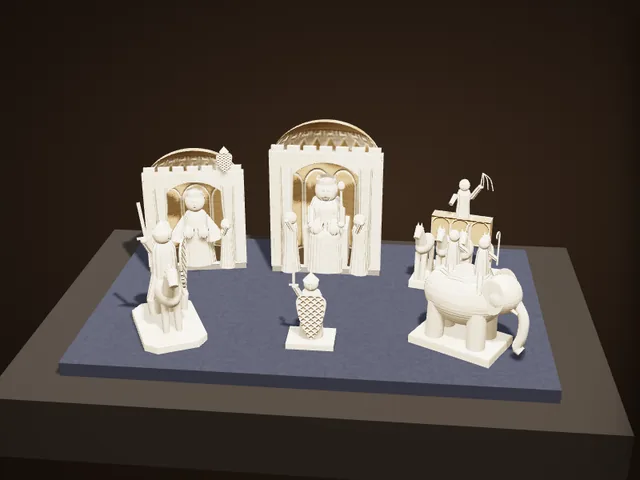
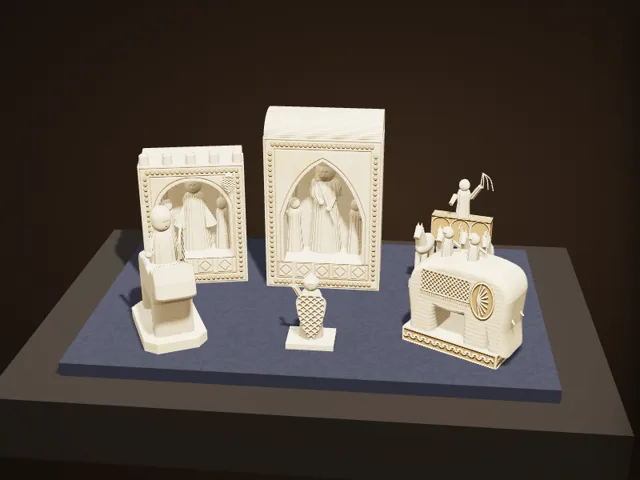
博物館：シャルルマーニュのチェス駒の王・女王・象・騎馬兵を展示写真に合わせて作り直し
Claude-Session: https://claude.ai/code/session_01EiWRAZTxRF5M5nk5vdR2jJ

Changed region(s): [[0.1562, 0.2188, 0.625, 0.75], [0.625, 0.4375, 0.8438, 0.7812]]

diff --git a/atlas/museum/ex/charlemagne.js b/atlas/museum/ex/charlemagne.js
@@ -8,7 +8,10 @@
    columns; elephant with two mahouts holding their hooks; quadriga driven by a charioteer with a three-thonged whip; horseman with
    a lozenge-decorated pointed shield, sword in the right hand, head turned to his left; soldier in cuirass and nasal helmet, sword
    held high behind a great pointed shield). Proportions, faces, folds and the ornament (arcades, palmettes, rosette) are drawn
-   in the manner of the pieces (estimates). */
+   in the manner of the pieces (estimates).
+   2026-11-21: rebuilt after photographs of the pieces on Wikimedia Commons: king and queen as deep ivory blocks with a framed niche
+   (beaded borders, a band of lozenges, a pleated canopy over the king's pointed opening, crenellations over the queen's arch), the
+   elephant and the horse as solid animals carved in one with their bases; warm cream ivory. */
 (function () {
   'use strict';
   (window.AtlasEx = window.AtlasEx || {}).charlemagne = {
@@ -18,7 +21,7 @@
       const V3 = (x, y, z) => new TT.Vector3(x, y, z);
       // ---- elephant ivory: creamy, polished, fine lines; old wear darker in the hollows
       const ivT = (k) => K.tex(512, 512, (g, w, h) => {
-        K.grain(g, w, h, { a: '#f2e8d2', b: '#e2d2b0', seed: 60 + k, sx: 1.2, sy: 14, warp: .6 });
+        K.grain(g, w, h, { a: '#eadab6', b: '#e0cda6', seed: 60 + k, sx: 1.2, sy: 30, warp: .25 });   // warm cream (the photographs)
         const n = K.noise(90 + k), img = g.getImageData(0, 0, w, h), d = img.data;
         for (let y = 0; y < h; y++) for (let x = 0; x < w; x++) { const a = n(x / 100, y / 100, 4), s = Math.max(0, a - .52) * 60, i = (y * w + x) * 4; d[i] -= s * .5; d[i + 1] -= s * .75; d[i + 2] -= s * 1.2; }
         g.putImageData(img, 0, 0);
@@ -85,78 +88,103 @@
         if (o.hair) ball(f, .58 * s, curly, 0, 5.42 * s, -.12 * s, 1.02, .95, 1.0, 14);
         p.add(f); return { f, s };
       };
-      // the little building: a semicircular back with arcades, a half-dome with crenellations, a straight front on columns
-      const pavilion = (p, o) => {
-        const R = o.w / 2, H0 = .7, Hw = o.hw, D = R * .95;
-        const bs = new TT.Shape(); bs.moveTo(-R, 0); bs.lineTo(R, 0); bs.absarc(0, 0, R, 0, Math.PI, true);
-        const bg = new TT.ExtrudeGeometry(bs, { depth: H0, bevelEnabled: false, curveSegments: 24 }); bg.rotateX(-Math.PI / 2); bg.scale(1, 1, -D / R);
-        const base = add(p, bg, iv, 0, 0, 0);
-        const wall = add(p, new TT.CylinderGeometry(R - .05, R - .05, Hw, 32, 1, true, Math.PI / 2, Math.PI), [arcadeM(o.arches)][0], 0, H0 + Hw / 2, 0); wall.scale.z = D / R; wall.material.side = TT.DoubleSide;
-        const dome = add(p, new TT.SphereGeometry(R, 32, 12, Math.PI, Math.PI, 0, Math.PI / 2), domeM, 0, H0 + Hw, 0); dome.scale.set(1, o.dome / R, D / R); dome.material.side = TT.DoubleSide;
-        // the front arch: a thick slab with a round-headed opening, crenellated along the top
-        const fs = new TT.Shape(); fs.moveTo(-R, 0); fs.lineTo(R, 0); fs.lineTo(R, o.arch + .9); fs.lineTo(-R, o.arch + .9); fs.closePath();
-        const hole = new TT.Path(); hole.moveTo(-R + .9, 0); hole.lineTo(R - .9, 0); hole.lineTo(R - .9, o.arch - (R - .9)); hole.absarc(0, o.arch - (R - .9), R - .9, 0, Math.PI, false); hole.closePath(); fs.holes.push(hole);
-        const fg = new TT.ExtrudeGeometry(fs, { depth: .55, bevelEnabled: true, bevelThickness: .05, bevelSize: .05, bevelSegments: 1, curveSegments: 20 });
-        add(p, fg, iv, 0, H0, -.3);
-        for (let i = 0; i < 7; i++) add(p, new TT.BoxGeometry(o.w / 9, .55, .5), iv, -R + (i + .5) * o.w / 7, H0 + o.arch + .9 + .27, 0);
-        // columns at the front corners (paired) and capitals
-        [-1, 1].forEach(s => { [0, 1].forEach(k => { const x = s * (R - .45 - k * .5); limb(p, V3(x, H0, .1 - k * .45), V3(x, H0 + o.arch - (R - .9) - .1, .1 - k * .45), .2, .18, iv, 10);
-            add(p, new TT.BoxGeometry(.55, .3, .55), iv, x, H0 + o.arch - (R - .9), .1 - k * .45); }); });
-        // the curtains, drawn aside: gathered folds hanging from the arch
-        [-1, 1].forEach(s => { const c = add(p, lathe([[.55, 0], [.62, 2], [.5, 4], [.75, 6], [.85, o.arch - .4]], 12), robe(10, 1), s * (R - 1.55), H0, .25); c.scale.set(.8, (o.arch - .2) / (o.arch - .4) * .98, .6); });
-        return { H0, R };
+      // ---- the king and the queen are deep blocks of ivory carved like a little shrine (Commons photographs of the pieces in the
+      //      Cabinet des médailles): a niche in the front, framed by bands of ornament (beads, lozenges, rosettes), the figures in
+      //      high relief inside it; the king's niche opens between curtains drawn up into a point under a rounded, pleated canopy,
+      //      the queen's is a round arch under a crenellated top
+      const frameM = (w, h, hole) => { const PXW = 768, PXH = Math.round(768 * h / w), s = PXW / w;
+        const draw = (g, bump) => {
+          if (bump) { g.fillStyle = '#7a7a7a'; g.fillRect(0, 0, PXW, PXH); } else g.drawImage(IVT[0].image, 0, 0, PXW, PXH);
+          const lo = bump ? '#202020' : 'rgba(120,90,50,.55)', hi = bump ? '#d8d8d8' : 'rgba(255,248,230,.0)', X = x => (x + w / 2) * s, Y = y => PXH - y * s;
+          g.lineCap = 'round'; g.lineJoin = 'round';
+          // outer and inner fillets
+          g.strokeStyle = lo; g.lineWidth = s * .08; g.strokeRect(s * .12, s * .12, PXW - s * .24, PXH - s * .24); g.strokeRect(s * .95, s * .95, PXW - s * 1.9, PXH - s * 1.9);
+          // a band of beads round the frame, between the fillets
+          for (let t = 0; t < 1; t += .5 / (w + h)) { const p = t < .5 ? [t * 2 * w - w / 2, .53] : [t * 2 * w - w - w / 2, h - .53];
+            if (p[0] < -w / 2 + .53 || p[0] > w / 2 - .53) continue; g.fillStyle = hi === 'rgba(255,248,230,.0)' ? 'rgba(120,90,50,.45)' : hi; g.beginPath(); g.arc(X(p[0]), Y(p[1]), s * .2, 0, 6.29); g.fill(); g.strokeStyle = lo; g.lineWidth = s * .04; g.stroke(); }
+          for (let y = 1.2; y < h - .9; y += .5) [-w / 2 + .53, w / 2 - .53].forEach(x => { g.fillStyle = bump ? '#d8d8d8' : 'rgba(120,90,50,.45)'; g.beginPath(); g.arc(X(x), Y(y), s * .2, 0, 6.29); g.fill(); g.strokeStyle = lo; g.lineWidth = s * .04; g.stroke(); });
+          // the base band: lozenges in squares
+          const bh = 1.6; g.strokeStyle = lo; g.lineWidth = s * .07; g.strokeRect(X(-w / 2 + 1), Y(1 + bh), (w - 2) * s, bh * s);
+          for (let x = -w / 2 + 1; x + bh <= w / 2 - 1 + .01; x += (w - 2) / Math.floor((w - 2) / bh)) { g.strokeRect(X(x + .12), Y(1 + bh - .12), (bh - .24) * s, (bh - .24) * s); g.beginPath(); g.moveTo(X(x + bh / 2), Y(1 + bh - .25)); g.lineTo(X(x + bh - .25), Y(1 + bh / 2)); g.lineTo(X(x + bh / 2), Y(1.25)); g.lineTo(X(x + .25), Y(1 + bh / 2)); g.closePath(); g.stroke(); }
+          // a moulding round the niche
+          g.strokeStyle = lo; g.lineWidth = s * .1; g.beginPath(); hole.getPoints(40).forEach((p, i) => { const xx = X(p.x * 1.06), yy = Y(p.y + (p.y > 3 ? .3 : 0)); i ? g.lineTo(xx, yy) : g.moveTo(xx, yy); }); g.stroke();
+          if (!bump) { for (let q = 0; q < 220; q++) { g.fillStyle = `rgba(130,96,52,${.04 + Math.random() * .1})`; g.fillRect(Math.random() * PXW, Math.random() * PXH, 1 + Math.random() * 6, 1 + Math.random() * 2); } }
+        };
+        const map = K.tex(PXW, PXH, g => draw(g, false)), bump = K.tex(PXW, PXH, g => draw(g, true), { data: true });
+        [map, bump].forEach(t => { t.repeat.set(1 / w, 1 / h); t.offset.set(.5, 0); });
+        return K.mat({ map, bumpMap: bump, bumpScale: 2.6, color: '#ffffff', roughness: .4, clearcoat: .25, clearcoatRoughness: .45 }); };
+      const shrine = (p, o) => {
+        const { w, h, d, nd } = o, hole = new TT.Path();
+        if (o.gable) { const nw = o.nw, b = 2.6, top = o.nh; hole.moveTo(-nw / 2, b); hole.lineTo(nw / 2, b); hole.lineTo(nw / 2, top * .55); hole.quadraticCurveTo(nw * .35, top * .9, 0, top); hole.quadraticCurveTo(-nw * .35, top * .9, -nw / 2, top * .55); hole.closePath(); }
+        else { const nw = o.nw, b = 2.6, r = nw / 2; hole.moveTo(-r, b); hole.lineTo(r, b); hole.lineTo(r, o.nh - r); hole.absarc(0, o.nh - r, r, 0, Math.PI, false); hole.closePath(); }
+        const S = new TT.Shape(); S.moveTo(-w / 2, 0); S.lineTo(w / 2, 0); S.lineTo(w / 2, h); S.lineTo(-w / 2, h); S.closePath(); S.holes.push(hole);
+        const fg = new TT.ExtrudeGeometry(S, { depth: nd, bevelEnabled: true, bevelThickness: .08, bevelSize: .08, bevelSegments: 2, curveSegments: 24 });
+        add(p, fg, [frameM(w, h, hole), iv2], 0, 0, d / 2 - nd);
+        add(p, new TT.BoxGeometry(w, h, d - nd), [iv2, iv2, iv2, iv2, IV(1), iv2], 0, h / 2, -nd / 2);
+        if (o.crenel) for (let i = 0; i < o.crenel; i++) { const x = -w / 2 + .5 + i * (w - 1) / (o.crenel - 1); const m = add(p, new TT.CylinderGeometry(.42, .45, .9, 12), iv, x, h + .45, d / 2 - .5); ball(p, .42, iv, x, h + .9, d / 2 - .5, 1, .6, 1, 10); }
+        if (o.canopy) { const c = add(p, new TT.CylinderGeometry(d / 2, d / 2, w, 24, 1, false, 0, Math.PI), robe(40, 1), 0, h, 0); c.rotation.z = Math.PI / 2; c.scale.set(.6, 1, 1); }
+        // the curtains: gathered folds down the sides of the niche
+        const nb = 2.6, cz = d / 2 - nd + .5;
+        [-1, 1].forEach(s => { const c = add(p, lathe([[.4, 0], [.5, 2], [.42, 4], [.6, 6], [.7, o.nh - nb - .2]], 12), robe(10, 1), s * (o.nw / 2 - .55), nb, cz); c.scale.set(.8, 1, .6); });
+        return { floor: nb, z: cz + .4 };
       };
+      const fitUV = (g) => { g.computeBoundingBox(); const b = g.boundingBox, uv = g.attributes.uv, pos = g.attributes.position, n = g.attributes.normal; g.computeVertexNormals();
+        for (let i = 0; i < uv.count; i++) { const side = Math.abs(g.attributes.normal.getZ(i)) < .5; uv.setXY(i, side ? (pos.getZ(i) - b.min.z) / (b.max.x - b.min.x) + (pos.getX(i) - b.min.x) / (b.max.x - b.min.x) : (pos.getX(i) - b.min.x) / (b.max.x - b.min.x), (pos.getY(i) - b.min.y) / (b.max.x - b.min.x)); } uv.needsUpdate = true; return g; };
       const pieces = [];
-      // KING (Inv.55.306, H 15.8 cm, w 10.5): bearded, crowned, long robe and short cloak, sceptre; two attendants draw the curtains
-      { const p = new TT.Group(); const P = pavilion(p, { w: 10.5, hw: 10.4, dome: 4.2, arch: 10.8, arches: 6 });
-        add(p, new TT.BoxGeometry(4.2, 4.2, 3.4), iv2, 0, P.H0 + 2.1, -1.4);
-        add(p, lathe([[1.9, 0], [1.75, 1.4], [1.5, 4.6], [1.45, 5.6], [1.1, 6.3], [.55, 6.6], [0, 6.62]], 22), robe(24), 0, P.H0, -.8).scale.z = .75;
-        const hem = add(p, lathe([[1.75, 0], [1.7, .3], [1.5, 3.6], [1.3, 4.3], [0, 4.35]], 22), robe(26), 0, P.H0, .75); hem.scale.z = .45;   // the robe falling in front from the knees
-        [-1, 1].forEach(s => limb(p, V3(s * .75, P.H0 + 4.55, -1.1), V3(s * .8, P.H0 + 4.45, .95), .72, .66, robe(10), 14) && ball(p, .66, robe(10), s * .8, P.H0 + 4.45, .95, 1, 1, .7, 14));
-        add(p, lathe([[1.55, 0], [1.65, .5], [1.3, 1.3], [0, 1.4]], 20), robe(18, 1), 0, P.H0 + 5.6, -.8).scale.z = .78;   // the short cloak
-        head(p, 1.1, 0, P.H0 + 7.75, -.7, true); crown(p, .95, 0, P.H0 + 8.75, -.7);
-        limb(p, V3(1.4, P.H0 + 6.0, -.5), V3(1.55, P.H0 + 4.9, .7), .42, .36, robe(8)); ball(p, .34, iv, 1.55, P.H0 + 5.0, .95);
-        limb(p, V3(1.55, P.H0 + 4.2, .95), V3(1.5, P.H0 + 8.6, .9), .14, .12, iv, 8); ball(p, .36, iv, 1.5, P.H0 + 8.8, .9, 1, 1.3, 1, 10);   // the sceptre
-        limb(p, V3(-1.4, P.H0 + 6.0, -.5), V3(-1.3, P.H0 + 4.8, .7), .42, .36, robe(8)); ball(p, .34, iv, -1.25, P.H0 + 4.8, .95);
-        [-1, 1].forEach(s => { const { f } = figure(p, { x: s * 3.25, z: .9, h: 6.2, ry: -s * .5 }); f.position.y = P.H0;
-          limb(f, V3(-s * .1, 4.2, .3), V3(s * .7, 5.6, .8), .26, .22, robe(6)); });
+      // KING (Inv.55.306, H 15.8 cm, w 10.5): standing, bearded and crowned, a long robe, the sceptre held across the body in both
+      // hands; two small attendants hold back the curtains
+      { const p = new TT.Group(); const P = shrine(p, { w: 10.5, h: 14.6, d: 6.2, nd: 3.4, nw: 7.4, nh: 12.6, gable: true, canopy: true });
+        const y0 = P.floor, z = P.z - .4;
+        add(p, lathe([[1.6, 0], [1.55, .4], [1.3, 3.0], [1.15, 5.0], [1.25, 6.4], [.95, 7.0], [.4, 7.25], [0, 7.27]], 22), robe(26), 0, y0, z).scale.z = .65;
+        add(p, lathe([[1.45, 0], [1.5, .5], [1.25, 1.5], [0, 1.6]], 20), robe(18, 1), 0, y0 + 5.7, z).scale.z = .7;   // the mantle over the shoulders
+        head(p, .95, 0, y0 + 8.1, z + .1, true); crown(p, .82, 0, y0 + 9.0, z + .1);
+        limb(p, V3(-1.2, y0 + 6.6, z), V3(-.4, y0 + 5.4, z + .9), .36, .32, robe(8)); ball(p, .3, iv, -.3, y0 + 5.35, z + 1.05);
+        limb(p, V3(1.2, y0 + 6.6, z), V3(.45, y0 + 4.8, z + .9), .36, .32, robe(8)); ball(p, .3, iv, .4, y0 + 4.75, z + 1.05);
+        limb(p, V3(.9, y0 + 3.6, z + 1.15), V3(-.6, y0 + 7.6, z + 1.0), .14, .12, iv, 8); ball(p, .3, iv, -.65, y0 + 7.8, z + 1.0, 1, 1.4, 1, 10);   // the sceptre
+        [-1, 1].forEach(s => { const { f } = figure(p, { x: s * 2.9, z: z + .3, h: 5.6, ry: -s * .2 }); f.position.y = y0; limb(f, V3(s * .4, 3.6, .2), V3(s * .75, 4.3, .5), .2, .18, robe(6)); });
         pieces.push(p); }
-      // QUEEN (Inv.55.309, H 12.7 cm, w 9.4): seated on a stool in a gown with very wide sleeves; servants with curly hair; a guard on the façade
-      { const p = new TT.Group(); const P = pavilion(p, { w: 9.4, hw: 8.0, dome: 3.6, arch: 8.6, arches: 5 });
-        add(p, new TT.CylinderGeometry(1.5, 1.6, 3.3, 16), iv2, 0, P.H0 + 1.65, -.9);
-        add(p, lathe([[1.8, 0], [1.65, 1.4], [1.3, 3.8], [1.2, 4.7], [.9, 5.3], [.45, 5.55], [0, 5.57]], 22), robe(26), 0, P.H0, -.6).scale.z = .75;
-        [-1, 1].forEach(s => limb(p, V3(s * .65, P.H0 + 3.7, -.9), V3(s * .7, P.H0 + 3.6, .85), .62, .56, robe(10), 14) && ball(p, .56, robe(10), s * .7, P.H0 + 3.6, .85, 1, 1, .7, 14));
-        [-1, 1].forEach(s => { const sl = add(p, new TT.ConeGeometry(.95, 2.6, 14, 1, true), robe(10, 1), s * 1.45, P.H0 + 4.05, .1); sl.rotation.z = s * .25; sl.material.side = TT.DoubleSide; });   // the wide sleeves
-        head(p, .95, 0, P.H0 + 6.4, -.5, false); crown(p, .82, 0, P.H0 + 7.25, -.5);
-        ball(p, .98, curly, 0, P.H0 + 6.6, -.75, 1.02, .98, 1, 14);
-        [-1, 1].forEach(s => { const { f } = figure(p, { x: s * 2.85, z: .85, h: 5.0, ry: -s * .5, hair: true }); f.position.y = P.H0;
-          limb(f, V3(-s * .1, 3.4, .25), V3(s * .6, 4.6, .7), .22, .19, robe(6)); });
-        // the little armed guard, high on the right of the façade, hiding behind his shield
-        const gd = new TT.Group(); gd.position.set(3.0, P.H0 + 8.6 + .9 + .55, .25); p.add(gd);
-        head(gd, .42, 0, 1.25, 0, false); add(gd, new TT.ConeGeometry(.46, .55, 12), iv, 0, 1.72, 0);
-        const sh = kite(1.4, 1.9, lozM); sh.position.set(0, .55, .35); gd.add(sh);
+      // QUEEN (Inv.55.309, H 12.7 cm, w 9.4): seated in a gown with wide sleeves; two attendants at the curtains
+      { const p = new TT.Group(); const P = shrine(p, { w: 9.4, h: 11.8, d: 5.6, nd: 3.0, nw: 6.8, nh: 10.4, crenel: 5 });
+        const y0 = P.floor, z = P.z - .4;
+        add(p, lathe([[1.55, 0], [1.5, .4], [1.25, 3.0], [1.05, 4.3], [1.1, 5.1], [.8, 5.6], [.35, 5.8], [0, 5.82]], 22), robe(26), 0, y0, z).scale.z = .65;
+        [-1, 1].forEach(s => { const sl = add(p, new TT.ConeGeometry(.7, 2.2, 14, 1, true), robe(10, 1), s * 1.2, y0 + 3.6, z + .3); sl.rotation.z = s * .2; sl.material.side = TT.DoubleSide; });   // the wide sleeves
+        head(p, .82, 0, y0 + 6.55, z + .1, false); crown(p, .7, 0, y0 + 7.3, z + .1);
+        [-1, 1].forEach(s => { const { f } = figure(p, { x: s * 2.55, z: z + .3, h: 5.2, ry: -s * .2, hair: true }); f.position.y = y0; });
+        // the little armed guard high on the right of the façade, behind his shield (the BnF record)
+        const gd = new TT.Group(); gd.position.set(3.35, 9.6, 2.85); p.add(gd);
+        head(gd, .36, 0, 1.05, -.1, false); add(gd, new TT.ConeGeometry(.4, .5, 12), iv, 0, 1.45, -.1);
+        const sh = kite(1.15, 1.6, lozM); sh.position.set(0, .45, .25); gd.add(sh);
         pieces.push(p); }
-      // ELEPHANT (Inv.55.312, H 11.7 cm, w 8.6): an elephant carrying two mahouts armed with their hooks
+      // ELEPHANT (Inv.55.312, H 11.7 cm, w 8.6), after the photographs: a solid, compact animal carved in one with its base — pillar
+      // legs, the trunk falling straight to the base, a large flat ear with radiating folds, a big round eye; a saddle-cloth with a
+      // band of lozenges and a fringe; two mahouts sitting on its back; the base's edge carved with a running pattern
       { const p = new TT.Group();
-        const bs = new TT.Shape(); bs.moveTo(-3.6, -2.3); bs.lineTo(3.6, -2.3); bs.lineTo(3.6, 2.3); bs.lineTo(-3.6, 2.3); bs.closePath();
-        add(p, new TT.ExtrudeGeometry(bs, { depth: .7, bevelEnabled: true, bevelThickness: .08, bevelSize: .08, bevelSegments: 1 }), iv, 0, .7, 0).rotation.x = Math.PI / 2;
-        const skinT = K.tex(256, 256, (g, w, h) => { g.fillStyle = '#808080'; g.fillRect(0, 0, w, h); g.strokeStyle = '#a0a0a0'; g.lineWidth = 2; for (let y = 4; y < h; y += 9) { g.beginPath(); g.moveTo(0, y); for (let x = 0; x < w; x += 16) g.lineTo(x, y + Math.sin(x * .2 + y) * 2.4); g.stroke(); } }, { data: true });
-        const skin = K.mat({ map: IVT[1], bumpMap: skinT, bumpScale: 1.6, color: '#ffffff', roughness: .4, clearcoat: .25 });
-        ball(p, 2.55, skin, 0, 4.6, 0, 1.35, 1.0, .9, 24);
-        [[-1.9, 1.15], [1.9, 1.15], [-1.9, -1.15], [1.9, -1.15]].forEach(([x, z]) => limb(p, V3(x, .7, z), V3(x * .92, 4.0, z * .9), .78, .85, skin, 14));
-        const hd = ball(p, 1.55, skin, 3.4, 5.6, 0, 1.0, 1.05, .95, 20);
-        [-1, 1].forEach(s => { const e = add(p, new TT.CircleGeometry(1.45, 20), skin, 3.0, 5.7, s * 1.35); e.rotation.y = s > 0 ? 0 : Math.PI; e.scale.set(.75, 1.05, 1); e.material.side = TT.DoubleSide;
-          limb(p, V3(4.2, 4.9, s * .55), V3(5.05, 4.55, s * .7), .2, .1, iv, 8); });   // ears and tusks
-        const tr = new TT.CatmullRomCurve3([V3(4.6, 5.2, 0), V3(5.3, 4.0, 0), V3(5.3, 2.4, 0), V3(5.0, 1.2, 0), V3(5.4, .95, 0)]);
-        add(p, new TT.TubeGeometry(tr, 24, .42, 10, false), skin);   // the trunk, down to the base
-        const cl = add(p, new TT.SphereGeometry(2.62, 28, 10, 0, Math.PI * 2, 0, .8), lozM, 0, 4.6, 0); cl.scale.set(1.35, 1.0, .92);   // the saddle-cloth
-        // the two mahouts, seated astride, each holding a hook
-        [[-1.2, 0], [1.4, 0]].forEach(([x], i) => { const f = new TT.Group(); f.position.set(x, 6.95, 0); f.rotation.y = Math.PI / 2; p.add(f);
+        const baseM = carved((g, w, h) => { g.lineWidth = 8; g.strokeRect(6, 6, w - 12, h - 12); for (let x = 20; x < w - 20; x += 40) { g.beginPath(); g.arc(x + 20, h / 2, 12, Math.PI, 0); g.stroke(); g.beginPath(); g.arc(x, h / 2, 12, 0, Math.PI); g.stroke(); } }, 512, 96);
+        add(p, new TT.BoxGeometry(8.6, 1.3, 4.6), [baseM, baseM, iv, iv, baseM, baseM], 0, .65, 0);
+        const E = new TT.Shape();   // the side profile (x along the body, head to +x)
+        E.moveTo(-3.5, 0); E.lineTo(-2.2, 0); E.quadraticCurveTo(-2.25, 1.6, -1.9, 2.9); E.quadraticCurveTo(-.3, 2.5, 1.2, 2.9); E.quadraticCurveTo(1.45, 1.6, 1.4, 0); E.lineTo(2.75, 0);
+        E.quadraticCurveTo(2.75, 1.7, 3.0, 2.6); E.quadraticCurveTo(3.3, 1.6, 3.55, .6); E.quadraticCurveTo(3.4, .1, 3.75, 0); E.lineTo(4.4, 0); E.quadraticCurveTo(4.25, .9, 4.2, 1.8);
+        E.quadraticCurveTo(4.3, 3.6, 4.4, 4.6); E.quadraticCurveTo(4.3, 5.8, 3.3, 6.0); E.quadraticCurveTo(2.0, 6.35, .5, 6.2); E.quadraticCurveTo(-2.4, 6.2, -3.5, 5.0); E.quadraticCurveTo(-4.0, 3.9, -3.7, 2.6); E.quadraticCurveTo(-3.5, 1.4, -3.5, 0);
+        const eg = new TT.ExtrudeGeometry(E, { depth: 2.2, bevelEnabled: true, bevelThickness: .95, bevelSize: .45, bevelSegments: 6, curveSegments: 16 }); eg.translate(0, 0, -1.1); fitUV(eg);
+        const skinT = K.tex(256, 256, (g, w, h) => { g.fillStyle = '#808080'; g.fillRect(0, 0, w, h); g.strokeStyle = '#a8a8a8'; g.lineWidth = 2; for (let y = 4; y < h; y += 10) { g.beginPath(); g.moveTo(0, y); for (let x = 0; x < w; x += 16) g.lineTo(x, y + Math.sin(x * .2 + y) * 2); g.stroke(); } }, { data: true });
+        const skin = K.mat({ map: IVT[1], bumpMap: skinT, bumpScale: 1.4, color: '#ffffff', roughness: .4, clearcoat: .25 });
+        add(p, eg, skin, 0, 1.3, 0);
+        // the saddle-cloth: a band hanging over each flank, lozenges and a fringe
+        const clothM = carved((g, w, h) => { g.lineWidth = 7; g.strokeRect(5, 5, w - 10, h * .8); for (let k = -6; k < 14; k++) { g.beginPath(); g.moveTo(k * 40, 10); g.lineTo(k * 40 + h * .7, h * .8); g.moveTo(k * 40, h * .8); g.lineTo(k * 40 + h * .7, 10); g.stroke(); }
+          for (let x = 8; x < w; x += 14) { g.beginPath(); g.moveTo(x, h * .82); g.lineTo(x, h - 4); g.stroke(); } }, 512, 256);
+        [-1, 1].forEach(sd => { const c = add(p, new TT.BoxGeometry(4.4, 2.3, .1), clothM, -.7, 1.3 + 4.6, sd * 2.08); });
+        // the ear (a broad flat flap with radiating folds) and the eye, on both sides
+        const earM = carved((g, w, h) => { g.lineWidth = 9; g.beginPath(); g.ellipse(w / 2, h / 2, w * .44, h * .44, 0, 0, 6.29); g.stroke(); for (let k = 0; k < 9; k++) { const a = -1.3 + k * .32; g.beginPath(); g.moveTo(w * .3, h * .5); g.lineTo(w * .3 + Math.cos(a) * w * .42, h * .5 + Math.sin(a) * h * .42); g.stroke(); } }, 256, 256);
+        [-1, 1].forEach(sd => { const e = add(p, new TT.CircleGeometry(1.35, 24), earM, 2.55, 1.3 + 4.3, sd * 2.09); e.scale.set(.8, 1.3, 1); if (sd < 0) e.rotation.y = Math.PI;
+          const eye = add(p, new TT.TorusGeometry(.32, .08, 6, 16), iv, 3.85, 1.3 + 4.95, sd * 1.75); eye.rotation.y = sd > 0 ? -.4 : Math.PI + .4; ball(p, .12, iv, 3.85, 1.3 + 4.95, sd * 1.78);
+          limb(p, V3(4.3, 1.3 + 3.0, sd * .8), V3(4.95, 1.3 + 2.4, sd * .9), .2, .08, iv, 8); });   // tusks
+        // the two mahouts, sitting astride, each with his hook
+        [[-1.7, 0], [.6, 0]].forEach(([x], i) => { const f = new TT.Group(); f.position.set(x, 1.3 + 6.1, 0); f.rotation.y = Math.PI / 2; f.scale.setScalar(.85); p.add(f);
           add(f, lathe([[.75, 0], [.68, 1.0], [.55, 1.9], [.3, 2.2], [0, 2.22]], 16), robe(10), 0, 0, 0).scale.z = .8;
-          [-1, 1].forEach(s => limb(f, V3(s * .6, .3, .2), V3(s * 1.4, -1.3, .55), .3, .24, robe(6)));
-          head(f, .46, 0, 2.6, .05, i === 0, 0);
+          [-1, 1].forEach(s => limb(f, V3(s * .6, .3, .2), V3(s * 1.5, -1.4, .5), .3, .24, robe(6)));
+          head(f, .5, 0, 2.65, .05, i === 0, 0); ball(f, .52, curly, 0, 2.8, -.1, 1, .9, 1, 12);
           limb(f, V3(.6, 1.6, .2), V3(.8, 1.1, .9), .2, .18, robe(6));
-          limb(f, V3(.8, .6, .95), V3(.8, 3.3, .95), .08, .08, iv, 6); const hk = add(f, new TT.TorusGeometry(.28, .07, 6, 12, Math.PI * 1.3), iv, .8 - .28, 3.3, .95); });
+          limb(f, V3(.8, .6, .95), V3(.8, 3.3, .95), .08, .08, iv, 6); add(f, new TT.TorusGeometry(.28, .07, 6, 12, Math.PI * 1.3), iv, .8 - .28, 3.3, .95); });
         pieces.push(p); }
       // QUADRIGA (Inv.55.317, H 12.6 cm, w 7.8): four horses abreast, a charioteer above with a three-thonged whip
       { const p = new TT.Group();
@@ -174,24 +202,26 @@
         for (let k = -1; k <= 1; k++) { const th = new TT.CatmullRomCurve3([V3(1.75, 6.6, .9), V3(2.2 + k * .3, 6.2, 1.2), V3(2.4 + k * .5, 5.2, 1.3 + k * .2)]); add(f, new TT.TubeGeometry(th, 10, .05, 5, false), iv); }
         limb(f, V3(-.75, 3.8, .1), V3(-1.0, 3.2, 1.0), .26, .22, robe(6));
         pieces.push(p); }
-      // HORSEMAN (Inv.55.319, H 12.4 cm, w 7.9): pointed shield with lozenges, sword in the right hand, head turned to his left
+      // HORSEMAN (Inv.55.319, H 12.4 cm, w 7.9), after the photographs: a sturdy horse carved in one block with its base, legs in
+      // pairs, the head bowed on an arched neck, a harness band across the chest; the rider in a long mail coat and a rounded helmet,
+      // the sword upright in his right hand, the long pointed shield on his left side
       { const p = new TT.Group();
         const bs = new TT.Shape(); const c = .9; bs.moveTo(-2.6 + c, -4.0); bs.lineTo(2.6 - c, -4.0); bs.lineTo(2.6, -4.0 + c); bs.lineTo(2.6, 4.0 - c); bs.lineTo(2.6 - c, 4.0); bs.lineTo(-2.6 + c, 4.0); bs.lineTo(-2.6, 4.0 - c); bs.lineTo(-2.6, -4.0 + c); bs.closePath();
-        add(p, new TT.ExtrudeGeometry(bs, { depth: .6, bevelEnabled: true, bevelThickness: .06, bevelSize: .06, bevelSegments: 1 }), iv, 0, .6, 0).rotation.x = Math.PI / 2;   // the base with cut corners
-        ball(p, 1.45, iv, 0, 4.0, 0, .85, .95, 2.05, 20);
-        [[-.55, 1.85], [.55, 1.85], [-.55, -1.8], [.55, -1.8]].forEach(([x, z]) => limb(p, V3(x, .6, z), V3(x * .9, 3.4, z * .95), .26, .36, iv, 8));
-        limb(p, V3(0, 4.6, 2.2), V3(0, 6.6, 3.0), .75, .55, iv, 12); limb(p, V3(0, 6.9, 2.95), V3(0, 5.9, 4.0), .5, .36, iv, 10);
-        add(p, new TT.BoxGeometry(.18, 1.4, 1.9), curly, 0, 6.0, 2.55).rotation.x = .55;
-        [-1, 1].forEach(s => add(p, new TT.ConeGeometry(.12, .45, 6), iv, s * .22, 7.25, 2.9));
-        limb(p, V3(0, 4.3, -3.2), V3(0, 1.4, -3.7), .32, .18, curly, 8);
-        // the rider: legs down the flanks, body, head turned to his left, conical helmet
-        [-1, 1].forEach(s => { limb(p, V3(s * .75, 5.4, .3), V3(s * 1.45, 3.4, .6), .42, .34, robe(6)); limb(p, V3(s * 1.45, 3.4, .6), V3(s * 1.35, 1.9, .55), .34, .28, iv); });
-        add(p, lathe([[1.15, 0], [1.1, 1.2], [1.05, 2.4], [.8, 3.0], [.4, 3.2], [0, 3.22]], 20), robe(16), 0, 5.2, .1).scale.z = .8;
-        head(p, .82, 0, 9.0, .15, false, .55); const hm = add(p, new TT.ConeGeometry(.88, 1.05, 16), iv, 0, 9.75, .15);
-        // shield on the left arm (+x), sword raised in the right hand (−x)
-        const sh = kite(2.7, 4.6, lozM); sh.position.set(1.45, 6.0, .55); sh.rotation.y = Math.PI / 2 - .35; p.add(sh);
-        limb(p, V3(-1.0, 7.6, .1), V3(-1.55, 8.7, .6), .32, .28, robe(6)); ball(p, .3, iv, -1.6, 8.85, .65);
-        add(p, new TT.BoxGeometry(.28, 3.2, .09), iv, -1.62, 10.6, .7).rotation.z = .12; add(p, new TT.BoxGeometry(1.1, .16, .2), iv, -1.6, 9.05, .68);
+        add(p, new TT.ExtrudeGeometry(bs, { depth: .9, bevelEnabled: true, bevelThickness: .06, bevelSize: .06, bevelSegments: 1 }), iv, 0, .9, 0).rotation.x = Math.PI / 2;
+        const Hs = new TT.Shape();   // the horse's side profile, head to +z (drawn in x, turned below)
+        Hs.moveTo(-3.2, 0); Hs.lineTo(-2.5, 0); Hs.quadraticCurveTo(-2.45, 1.6, -2.2, 3.0); Hs.quadraticCurveTo(-.2, 2.7, 1.7, 3.0); Hs.quadraticCurveTo(1.95, 1.5, 2.0, 0); Hs.lineTo(2.7, 0);
+        Hs.quadraticCurveTo(2.75, 1.8, 2.85, 3.2); Hs.quadraticCurveTo(3.3, 4.2, 3.4, 5.0); Hs.lineTo(4.1, 4.3); Hs.quadraticCurveTo(4.6, 4.2, 4.75, 4.6); Hs.lineTo(4.55, 5.7);
+        Hs.lineTo(4.2, 6.6); Hs.lineTo(3.9, 6.15); Hs.quadraticCurveTo(3.0, 6.4, 2.4, 5.7); Hs.quadraticCurveTo(1.9, 5.2, 1.2, 5.3); Hs.quadraticCurveTo(-1.0, 5.4, -2.9, 5.1); Hs.quadraticCurveTo(-3.6, 4.6, -3.4, 3.2); Hs.quadraticCurveTo(-3.2, 1.6, -3.2, 0);
+        const hg = new TT.ExtrudeGeometry(Hs, { depth: 1.6, bevelEnabled: true, bevelThickness: .85, bevelSize: .35, bevelSegments: 6, curveSegments: 12 }); hg.translate(0, 0, -.8); fitUV(hg);
+        const horse = add(p, hg, iv, 0, .9, 0); horse.rotation.y = -Math.PI / 2;
+        limb(p, V3(-1.15, .9 + 4.4, 3.0), V3(1.15, .9 + 4.4, 3.0), .22, .22, robe(12, 1), 8);   // the breast band
+        // the rider
+        [-1, 1].forEach(sd => { limb(p, V3(sd * .75, .9 + 5.5, .2), V3(sd * 1.2, .9 + 3.6, .7), .42, .36, robe(6)); limb(p, V3(sd * 1.2, .9 + 3.6, .7), V3(sd * 1.15, .9 + 2.3, .9), .34, .28, iv); });
+        add(p, lathe([[1.2, 0], [1.15, 1.2], [1.05, 2.4], [.8, 3.0], [.4, 3.2], [0, 3.22]], 20), robe(16), 0, .9 + 5.3, 0).scale.z = .8;
+        head(p, .82, 0, .9 + 9.2, .1, false, .4); const hm = add(p, new TT.SphereGeometry(.9, 18, 10, 0, Math.PI * 2, 0, Math.PI / 2), iv, 0, .9 + 9.55, .1); hm.scale.y = 1.1;
+        const sh = kite(2.6, 5.0, lozM); sh.position.set(1.45, .9 + 6.0, .4); sh.rotation.y = Math.PI / 2 - .3; p.add(sh);
+        limb(p, V3(-1.0, .9 + 7.8, .1), V3(-1.3, .9 + 6.8, .8), .32, .28, robe(6)); ball(p, .3, iv, -1.35, .9 + 6.7, .9);
+        add(p, new TT.BoxGeometry(.3, 4.2, .09), iv, -1.38, .9 + 9.0, .95); add(p, new TT.BoxGeometry(1.0, .16, .2), iv, -1.38, .9 + 6.9, .95);
         pieces.push(p); }
       // FOOT SOLDIER (Inv.55.323, H 7.3 cm, w 4.8): cuirass, nasal helmet, sword held high behind a great pointed shield
       { const p = new TT.Group();

diff --git a/atlas/museum/gallery-ja.js b/atlas/museum/gallery-ja.js
@@ -94,14 +94,14 @@
       museum: 'フランス国立図書館 メダル・古代美術部門（パリ）', no: 'Inv.55.305〜55.323', mat: '象牙（金箔・彩色のあと）', size: '高さ7.3〜15.8cm（王15.8cm・歩兵7.3cm）',
       p: ['ヨーロッパで作られた早い時期の豪華なチェス駒で、16個が残っています。王2・女王2・象4・四頭立ての馬車（クアドリガ）3・騎馬兵4・歩兵1。司教（ビショップ）のかわりに象、塔（ルーク）のかわりに馬車という、アラブのチェス「シャトランジ」の駒の顔ぶれを人や動物の姿で表しています。王は重さが1kg近くあります。',
         '1598年の目録では30個ありましたが、革命のあとに残ったのは16個です。1625年に「シャルルマーニュ（カール大帝）のもの」とされましたが、実際には大帝より200年以上あとに、イタリア南部の工房で作られたと考えられています。いっしょに伝わった大きな象の像（「シャルルマーニュの象」）は、インドで作られた別のもので、チェス駒だったかどうかも今は疑われています。'],
-      spots: [['王', 'あごひげの王が冠をかぶり、長い衣と短いマントで王笏を持って座ります。屋根は小さな半円形の建物で、対になった柱が支えます。'],
+      spots: [["王", "冠をかぶったあごひげの王が、長い衣にマントをはおり、王笏を斜めに持ちます。左右に寄せた幕が上でとがった形の開口をつくり、上にはひだのある天蓋。"],
         ['幕を開ける従者', '王の左右で2人の従者が幕を引き、王の姿を見せています。王と女王はどちらもこの形です。'],
         ['女王と見張りの兵', '女王は腰かけに座り、とても広い袖の衣。巻き毛の侍女が幕を引きます。正面の右上には、盾の後ろに隠れた小さな武装した兵がいます。'],
         ['象と象使い', '象の背に、かぎ棒を持った2人の象使い。チェスの象（今のビショップ）にあたります。'],
         ['四頭立ての馬車', '4頭の馬が横に並び、御者が3本のひものついたむちを持ちます。今のルークにあたる駒です。'],
         ['騎馬兵', 'ひし形の模様のとがった盾と、右手の剣。顔を左に向けています。台はすみを切り落とした形。'],
         ['歩兵', 'よろいと鼻あてつきのかぶとの兵が、大きなとがった盾のかげで剣をかかげます。装備は11世紀末のノルマン風です。']],
-      model: '高さは各駒の記録（王Inv.55.306＝15.8cm、女王.309＝12.7cm、象.312＝11.7cm、馬車.317＝12.6cm、騎馬兵.319＝12.4cm、歩兵.323＝7.3cm）に合わせ、何が彫られているかは博物館の説明に従いました。体つき・顔・衣のひだ・アーチや葉の飾りの描き方は推定で、細部の彫刻はかなり簡略にしています。並べ方は展示のための構成です。',
+      model: "高さは各駒の記録（王Inv.55.306＝15.8cm、女王.309＝12.7cm、象.312＝11.7cm、馬車.317＝12.6cm、騎馬兵.319＝12.4cm、歩兵.323＝7.3cm）に合わせ、何が彫られているかは博物館の説明に従いました。王と女王を厚い象牙の塊に彫った小さな祠の形（玉の帯・菱形の帯で縁取った壁龕）、象と馬を台と一体のどっしりした形にしたのは、ウィキメディア・コモンズにある展示写真に合わせたものです。顔・衣のひだ・飾りの描き方は推定で、細部の彫刻はかなり簡略にしています。並べ方は展示のための構成です。",
       src: [['フランス国立図書館 メダル・古代美術部門 コレクション（王 Inv.55.306）', 'https://medaillesetantiques.bnf.fr/ws/catalogue/app/collection/record/ark:/12148/c33gbcw5g'], ['同（女王 Inv.55.309）', 'https://medaillesetantiques.bnf.fr/ws/catalogue/app/collection/record/ark:/12148/c33gbcw6r'], ['同（象 Inv.55.312）', 'https://medaillesetantiques.bnf.fr/ws/catalogue/app/collection/record/ark:/12148/c33gbcx2w'], ['Wikipedia「Charlemagne chessmen」（目録の歴史・重さ・赤い色）', 'https://en.wikipedia.org/wiki/Charlemagne_chessmen']] },
     nishapur: { name: 'ニーシャープールのチェスセット', alt: '青と黒のやきものの、世界でも古いチェスセット', date: '12世紀', where: 'イラン（ニーシャープールとされる）', found: '出土の記録はない。1971年に美術館が購入。同じ色と形の歩兵が、美術館のニーシャープール発掘で見つかっている',
       museum: 'メトロポリタン美術館（ニューヨーク）', no: '1971.193a–ff', mat: 'ストーンペースト（石英を混ぜた白い焼き物）、型で成形し手で仕上げ、釉薬がけ', size: '王：高さ5.1cm・直径5.4cm／歩兵：高さ3.3cm・直径2.9cm',

diff --git a/atlas/museum/gallery-en.js b/atlas/museum/gallery-en.js
@@ -93,14 +93,14 @@
       museum: 'Bibliothèque nationale de France, Coins, Medals and Antiquities (Paris)', no: 'Inv.55.305–55.323', mat: 'Elephant ivory (traces of gilding and paint)', size: '7.3–15.8 cm high (king 15.8 cm, foot soldier 7.3 cm)',
       p: ['Sixteen pieces survive from an early luxury chess set made in Europe: 2 kings, 2 queens, 4 elephants, 3 four-horse chariots (quadrigae), 4 horsemen and 1 foot soldier. Elephants instead of bishops and chariots instead of rooks: the line-up of shatranj, the Arab chess, carved as people and animals. A king weighs almost 1 kg.',
         'The inventory of 1598 counted 30 pieces; 16 were left after the Revolution. In 1625 they were said to have belonged to Charlemagne, but they are now thought to have been made in southern Italy more than two centuries after him. The large ivory elephant kept with them (the "Elephant of Charlemagne") is a separate work from India, and whether it was a chess piece at all is now doubted.'],
-      spots: [['The king', 'A bearded king, crowned, in a long robe and short cloak, holding a sceptre, seated under a small semicircular building carried on paired columns.'],
+      spots: [["The king", "A bearded, crowned king in a long robe and mantle holds his sceptre slantwise. The curtains, drawn aside, make a pointed opening under a pleated canopy."],
         ['The attendants at the curtains', 'Two attendants draw back the curtains on either side to reveal the king. Both kings and queens are made this way.'],
         ['The queen and the guard', 'The queen sits on a stool in a gown with very wide sleeves; curly-haired servants draw the curtains. High on the right of the façade, a small armed guard hides behind his shield.'],
         ['Elephant and mahouts', 'An elephant carrying two mahouts armed with their hooks: the chess "elephant", today\'s bishop.'],
         ['The quadriga', 'Four horses abreast, driven by a charioteer with a three-thonged whip: the piece that became the rook.'],
         ['The horseman', 'A pointed shield decorated with lozenges, a sword in the right hand, the head turned to his left; the base has cut corners.'],
         ['The foot soldier', 'In cuirass and nasal helmet, he holds his sword high behind a great pointed shield — Norman-style equipment of the late 11th century.']],
-      model: 'The heights follow the record of each piece (king Inv.55.306 = 15.8 cm, queen .309 = 12.7 cm, elephant .312 = 11.7 cm, quadriga .317 = 12.6 cm, horseman .319 = 12.4 cm, foot soldier .323 = 7.3 cm), and what each shows follows the museum\'s descriptions. The proportions, faces, folds and the drawing of the arcades and foliage are estimates, and the carving is much simplified. The arrangement is for display.',
+      model: "The heights follow each piece's record (king Inv.55.306 = 15.8 cm, queen .309 = 12.7, elephant .312 = 11.7, quadriga .317 = 12.6, horseman .319 = 12.4, foot soldier .323 = 7.3), and what each shows follows the museum's notes. The king and queen as small shrines carved from a deep block of ivory (a niche framed by bands of beads and lozenges), and the elephant and horse as solid animals carved in one with their bases, follow photographs of the pieces on display (Wikimedia Commons). Faces, folds and ornament are drawn in their manner and much simplified. The arrangement is for display.",
       src: [['BnF Coins, Medals and Antiquities collection (king, Inv.55.306)', 'https://medaillesetantiques.bnf.fr/ws/catalogue/app/collection/record/ark:/12148/c33gbcw5g'], ['The same (queen, Inv.55.309)', 'https://medaillesetantiques.bnf.fr/ws/catalogue/app/collection/record/ark:/12148/c33gbcw6r'], ['The same (elephant, Inv.55.312)', 'https://medaillesetantiques.bnf.fr/ws/catalogue/app/collection/record/ark:/12148/c33gbcx2w'], ['Wikipedia, "Charlemagne chessmen" (inventory history, weight, red paint)', 'https://en.wikipedia.org/wiki/Charlemagne_chessmen']] },
     nishapur: { name: 'The Nishapur Chess Set', alt: 'One of the world\'s oldest chess sets, in blue and black glaze', date: '12th century', where: 'Iran (attributed to Nishapur)', found: 'No excavation record; bought by the museum in 1971. A pawn of the same colour and shape was excavated at Nishapur by the museum',
       museum: 'The Metropolitan Museum of Art, New York', no: '1971.193a–ff', mat: 'Stonepaste (a white body mixed with ground quartz), molded and finished by hand, glazed', size: 'King H 5.1 cm, diam. 5.4 cm · pawn H 3.3 cm, diam. 2.9 cm',

diff --git a/atlas/museum/gallery.js b/atlas/museum/gallery.js
@@ -10,7 +10,7 @@
    (a turn, a zoom, the slow turntable) and never while the window is in the background. */
 (function () {
   'use strict';
-  const V = 27;
+  const V = 28;
   /* ---------- the pieces: id, the game it belongs to, its scale (cm per model unit), the camera's start, the details ----------
      lock: { game, ach } → open after that many achievements of the game. src: the files the piece needs (besides ex/<id>.js) */
   const EX = [
@@ -26,7 +26,7 @@
     { id: 'lewis', game: 'chess', cm: 1, view: [.12, .4, .82],
       spots: [[-2.7, 5.3, -1.8], [2.25, 8.3, -2.9], [8.5, 9.9, -2.9], [-6.9, 4.3, .9], [-3.35, 7.3, 5.37], [4.4, 4.1, 4.0], [10.6, 2.5, -2.0]] },
     { id: 'charlemagne', game: 'chess', cm: 1, view: [.1, .42, .8],
-      spots: [[0, 8.6, -5.0], [3.25, 4.7, -4.4], [-9.5, 12.0, -5.3], [11.45, 9.9, 5.9], [14.4, 11.0, -5.2], [-11.0, 6.0, 6.4], [0, 3.0, 8.5]] },
+      spots: [[0, 11.8, -2.0], [2.9, 7.2, -2.0], [-9.5, 11.5, -2.5], [11.45, 9.9, 5.9], [14.4, 11.0, -5.2], [-11.0, 6.0, 6.4], [0, 3.0, 8.5]] },
     { id: 'nishapur', game: 'chess', cm: 1, view: [.9, .55, .78],
       spots: [[3.1, 5.0, 22.9], [-3.1, 4.2, 22.8], [-9.3, 3.4, 21.2], [-15.5, 3.6, 21.0], [-21.7, 3.9, 21.7], [-3.1, 2.4, 15.5], [3.1, 5.0, -22.9]] },
     { id: 'ottoman', game: 'backgammon', cm: 1, flip: true, view: [0, .95, .82], lock: { game: 'backgammon', ach: 3 },

diff --git a/atlas/museum.js b/atlas/museum.js
@@ -32,7 +32,7 @@
   const ROOMS = [
     { id: 'map', ready: () => !!window.AtlasMap, render: (el, c) => AtlasMap.render(el, c) },
     { id: 'tree', src: ['museum/tree.js?v=2'], ready: () => !!window.AtlasTree, render: (el, c) => AtlasTree.render(el, c) },
-    { id: 'gallery', src: ['museum/gallery.js?v=27'], ready: () => !!window.AtlasGallery, render: (el, c) => AtlasGallery.render(el, c) },
+    { id: 'gallery', src: ['museum/gallery.js?v=28'], ready: () => !!window.AtlasGallery, render: (el, c) => AtlasGallery.render(el, c) },
   ];
   const KEY = 'atlas-museum-room';
   const esc = s => String(s == null ? '' : s).replace(/[&<>"]/g, c => ({ '&': '&amp;', '<': '&lt;', '>': '&gt;', '"': '&quot;' }[c]));

diff --git a/atlas/index.html b/atlas/index.html
@@ -2559,7 +2559,7 @@ window.AtlasRgdTimer = function (btn, ms, alive) {
 <link rel="stylesheet" href="worldmap.css?v=19">
 <link rel="stylesheet" href="museum.css?v=4">
 <script src="worldmap.js?v=40"></script>
-<script src="museum.js?v=28"></script>
+<script src="museum.js?v=29"></script>
 <script src="npc/npc.js?v=46"></script>
 <script src="avtalk.js?v=4"></script>
 <script>/* Page states as classes on <html> (2026-11-21) — html.cov-on: the 3D view / Historia / a sheet / a level sheet is open;

diff --git a/claude/museum-spec.md b/claude/museum-spec.md
@@ -54,6 +54,7 @@
     記録：バリンダリーの盤（Discovery Programme／アイルランド国立博物館の3Dスキャン、Sketchfab）2026-11-21：灰色がかった焦げ茶の木、小さく浅い穴、中央の二重の輪と四隅をまたぐ四分円、すり減った彫りに修正（目視比較）。
     記録：ルイス島のチェス駒（大英博物館の3Dスキャン、Sketchfab）2026-11-21：象牙の色を灰色がかった黄褐色＋茶色のしみに修正。座像3体（王・王妃・司教）の形を作り直し（肩の落ちた幅広の一塊の体に大きな面長の頭を沈め、玉座は横と後ろだけに見せる）。続けて見張りと騎士も（尖った兜と鼻当て、面長の顔、騎士の馬は大きく立った頭・帯状のたてがみ・板状の脚）。
     記録：ダイスタワー（ドイツ考古学研究所 Arachne 1938922 の写真）2026-11-21：黒ずんだ金属、正面は1語ずつ6段の大きな透かし文字（文字が残り地が抜ける）、側面は輪をつないだ格子、階段の両わきに渦巻きの板（目視比較）。
+    記録：シャルルマーニュのチェス駒（ウィキメディア・コモンズの展示写真）2026-11-21：王と女王を厚い象牙の塊に彫った祠形（玉の帯・菱形の帯の枠、王はとがった開口とひだの天蓋、女王は丸アーチと鋸壁）、象と騎馬兵の馬を台と一体の輪郭押し出しの形に、象牙を暖かいクリーム色に。馬車と歩兵、細部の彫りは未対応。
   - スマホで遠目に見たときのちらつき・白飛びがないこと（カメラの near/far を狭く、テクスチャはミップマップと異方性フィルタ、トーンマップの露出 .85、重なる面は polygonOffset）。
 - 収蔵品（2026-11-21）：
   - ウルの王族のゲーム盤（大英博物館 120834）— ポータルのウルの3D盤（`atlas/models/ur.js`）をそのまま使う（実物そっくりの出来）。
